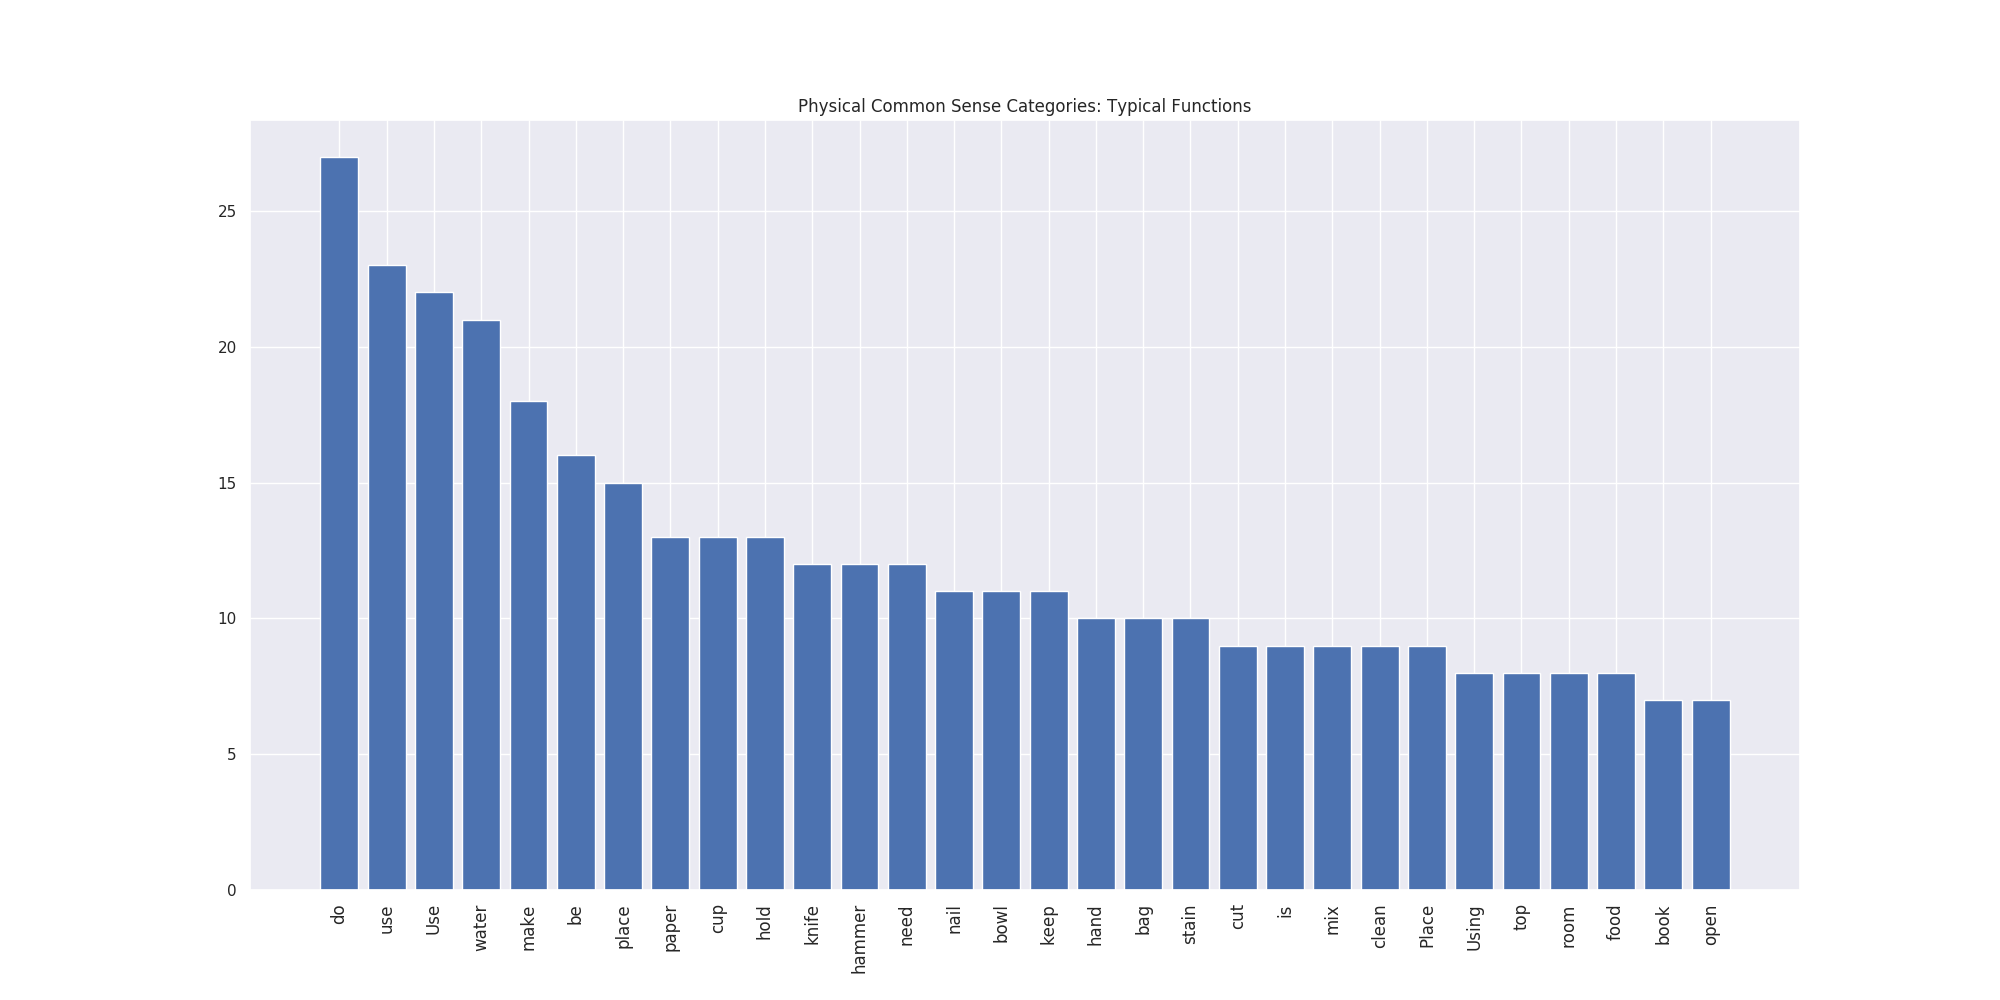
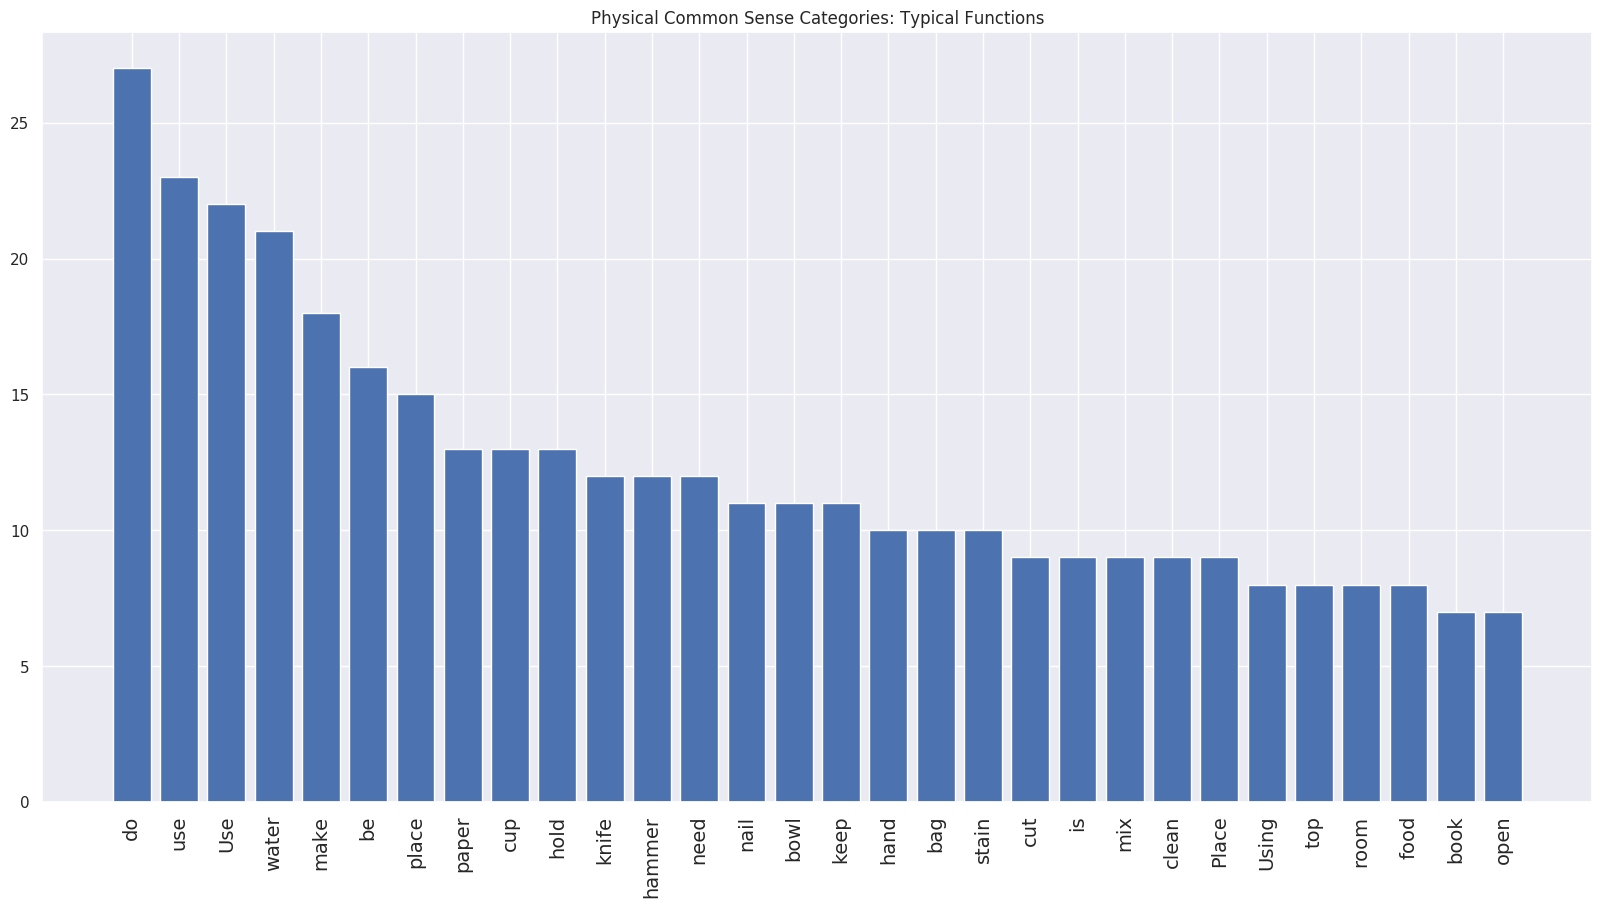
updated figs

Changed region(s): [[0.0624, 0.0617, 0.9675, 0.9879], [0.3745, 0.0, 0.6554, 0.0309], [0.4057, 0.0926, 0.6242, 0.1235]]

diff --git a/analyze_qualtrics_raw.py b/analyze_qualtrics_raw.py
@@ -729,13 +729,13 @@ def top_k_words_hist(d, ai2_ids2data, args, tags_prefix=None):
             fig = plt.figure(figsize=(20, 10))
             plt.bar(range(len(values)), values, align='center')
             plt.xticks(range(len(tokens)), tokens)
-            plt.xticks(rotation=90, fontsize=12)
+            plt.xticks(rotation=90, fontsize=14)
             title = CAT_NAMES[cat_key] + ": " + CAT_ID_DICTS[cat_key][cat]
             plt.title(title)
             print (title)
             save_name = cat_key + "_" + str(cat) + ".png"
             save_path = os.path.join(figs_root, save_name)
-            fig.savefig(save_path)
+            fig.savefig(save_path, bbox_inches="tight")
             plt.close(fig)
 
     return None
